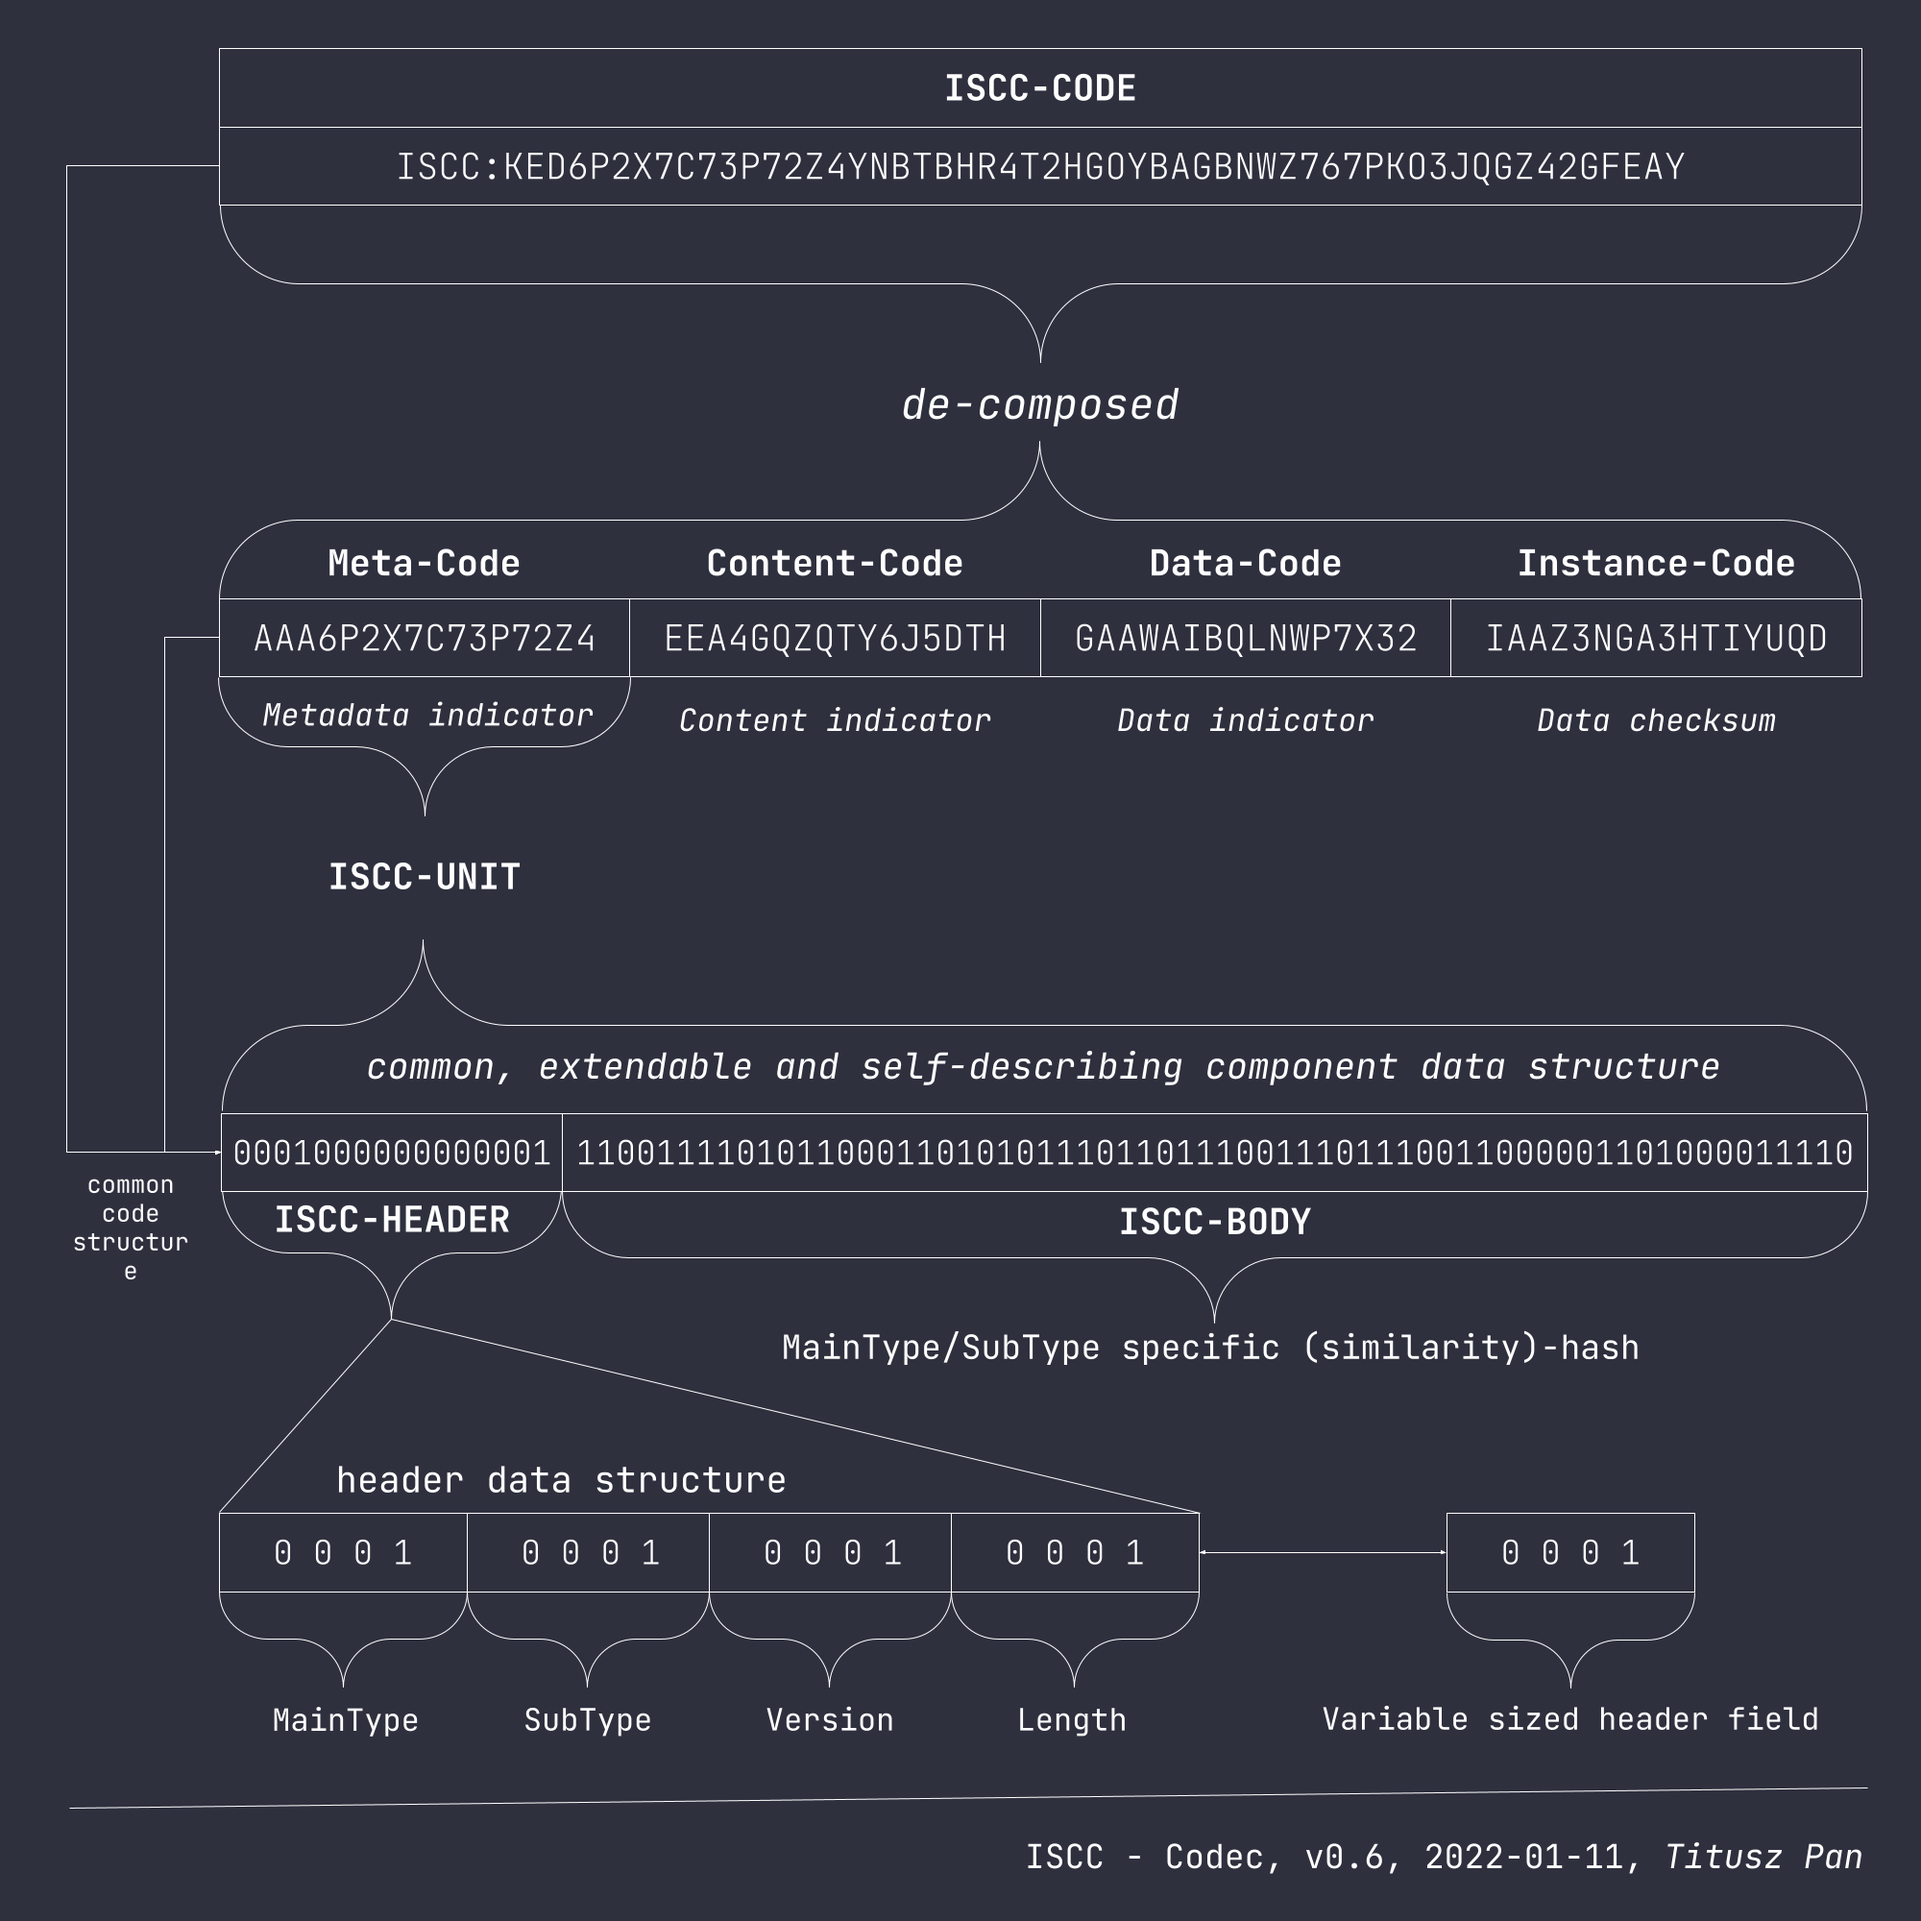
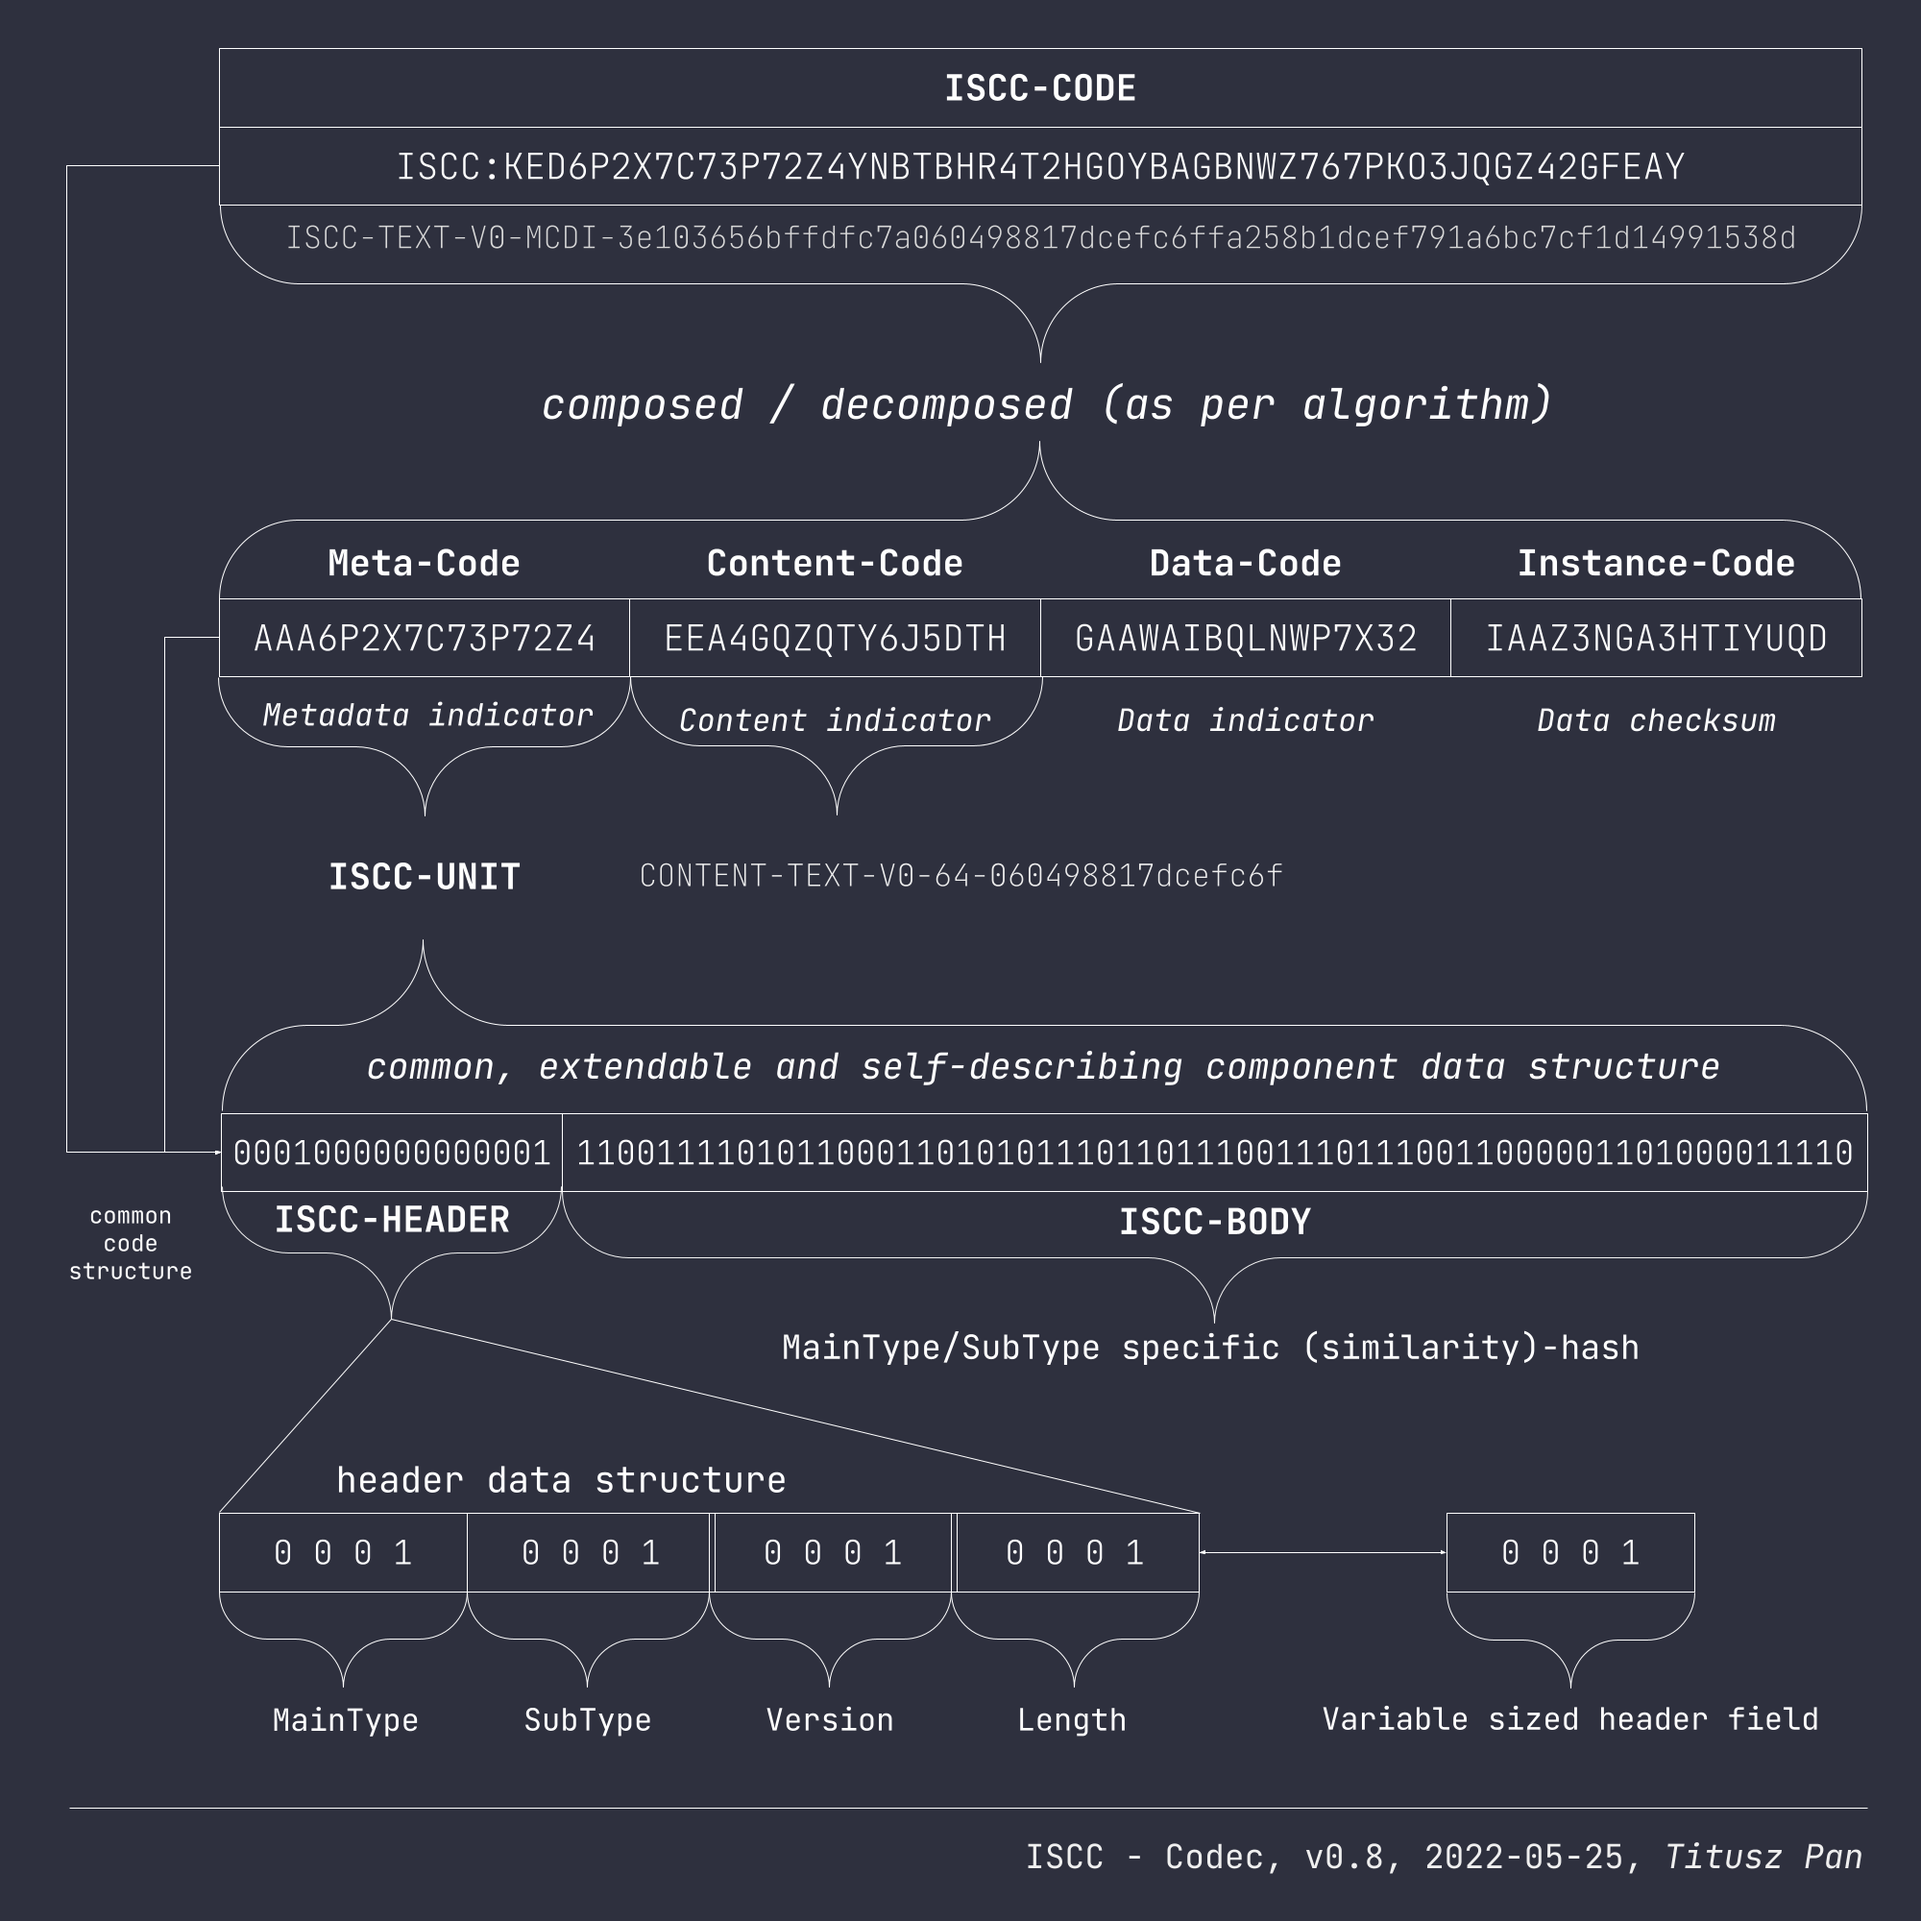
Updated codec architecture figures

diff --git a/CHANGELOG.md b/CHANGELOG.md
@@ -5,6 +5,7 @@
 - Optimized soft_hash_audio performance
 - Removed Cython from build requirements
 - Fixed api listing tool
+- Updated codec architecture figure
 - Updated dependencies
 
 ## [0.2.8] - 2022-04-21

diff --git a/docs/changelog.md b/docs/changelog.md
@@ -5,6 +5,7 @@
 - Optimized soft_hash_audio performance
 - Removed Cython from build requirements
 - Fixed api listing tool
+- Updated codec architecture figure
 - Updated dependencies
 
 ## [0.2.8] - 2022-04-21
